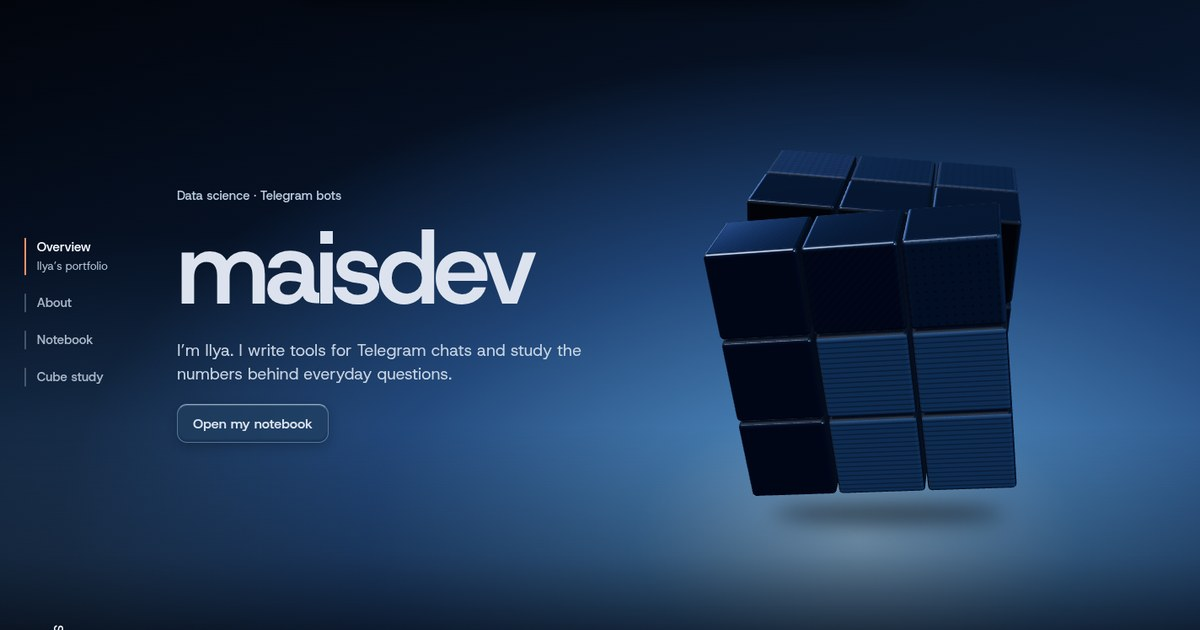
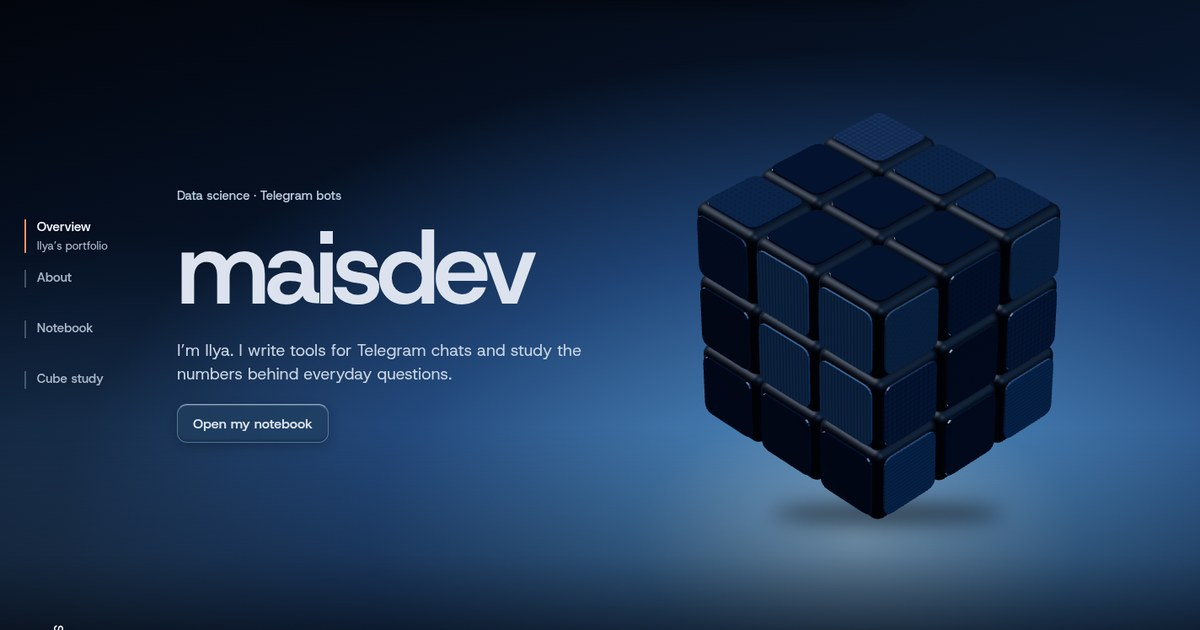
Обновлены форма и вращение кубика, переходы между разделами и полоса прокрутки

Changed region(s): [[0.555, 0.2111, 0.8942, 0.8444], [0.0308, 0.3317, 0.0925, 0.5429], [0.0308, 0.573, 0.0925, 0.6333]]

diff --git a/style.css b/style.css
@@ -208,26 +208,31 @@ h1 > span{display:block}
 
 .section-index {
   position:fixed;z-index:4;left:clamp(18px,2vw,36px);top:50%;transform:translateY(-50%);
-  width:156px;display:grid;
+  width:156px;display:grid;--row:60px;--selected:0;
 }
-.section-index a {display:block;position:relative;padding:11px 0 11px 15px;min-height:44px;color:#a7b5c6}
-.section-index a::before {content:"";position:absolute;left:0;top:11px;bottom:11px;width:2px;background:#8496aa77}
+.section-index a {display:block;position:relative;padding:8px 0 0 15px;height:var(--row);color:#a7b5c6;transition:color .32s ease}
+.section-index a::before {content:"";position:absolute;left:0;top:10px;height:21px;width:2px;background:#8496aa77;transition:background-color .4s ease}
 .section-index strong {font-weight:550;font-size:.94rem}
-.section-index small {display:none;margin-top:4px;font-size:.82rem;line-height:1.42;color:#b1c2d4}
+.section-index small {display:block;margin-top:4px;font-size:.82rem;line-height:1.35;color:#b1c2d4;
+  opacity:0;transform:translateY(4px);transition:opacity .28s ease,transform .4s var(--ease)}
 .section-index a[aria-current],.section-index a:hover {color:#f5f8ff}
 .section-index a[data-past]::before {background:#ac765e}
-.section-index a[aria-current]::before {background:#ff9468}
-.section-index a[aria-current] small {display:block}
+.section-index a[aria-current] small {opacity:1;transform:none}
+.section-index::after {content:"";pointer-events:none;position:absolute;top:10px;left:0;width:2px;height:40px;
+  border-radius:2px;background:#ff9468;transform:translateY(calc(var(--selected) * var(--row)));
+  transition:transform .55s cubic-bezier(.33,0,.17,1)}
 @media(min-width:1051px){
   .hero-layout {padding-left:max(210px,calc((100vw - 1120px)/2))}
   .about-layout,.study-layout {width:auto;max-width:1200px;margin-inline:max(210px,calc((100vw - 1120px)/2)) max(5vw,calc((100vw - 1360px)/2))}
 }
 @media(max-width:1050px){
   .section-index {inset:auto 0 0;transform:none;width:100%;display:grid;grid-template-columns:repeat(4,1fr);padding:0 max(6px,env(safe-area-inset-right)) env(safe-area-inset-bottom) max(6px,env(safe-area-inset-left));background:#0a1320;border-top:1px solid #293b50}
-  .section-index a {display:grid;place-content:center;padding:5px;text-align:center}
+  .section-index a {height:auto;min-height:44px;display:grid;place-content:center;padding:5px;text-align:center}
   .section-index a::before {top:0;bottom:auto;left:12%;width:76%;height:2px}
   .section-index strong {font-size:.78rem}
-  .section-index a[aria-current] small {display:none}
+  .section-index small {display:none}
+  .section-index::after {inset:0 auto auto 0;width:25%;height:2px;background:transparent;
+    border-inline:0;transform:translateX(calc(var(--selected) * 100%));background-image:linear-gradient(to right,transparent 12%,#ff9468 12% 88%,transparent 88%)}
   .hero-meta {bottom:64px}
 }
 @media(prefers-reduced-motion:no-preference){
@@ -236,7 +241,19 @@ h1 > span{display:block}
   @keyframes word-arrival {from{color:#8091aa}to{color:var(--word-ink,var(--ink))}}
 }
 
-html {scrollbar-color:#4c5c70 #0a1320;scrollbar-width:thin}
+html {scrollbar-color:#7893ac #101d2a;scrollbar-width:thin}
+@supports selector(::-webkit-scrollbar) {
+  html {scrollbar-color:auto;scrollbar-width:auto}
+  html::-webkit-scrollbar {width:12px;height:12px}
+  html::-webkit-scrollbar-track {background:#0c1722;box-shadow:inset 1px 0 #243546}
+  html::-webkit-scrollbar-thumb {
+    border:3px solid transparent;border-radius:12px;background:#708ba4;background-clip:padding-box;
+    box-shadow:inset 1px 0 #b6cddd66,inset -1px 0 #415a70
+  }
+  html::-webkit-scrollbar-thumb:hover {background-color:#97b2c8}
+  html::-webkit-scrollbar-thumb:active {background-color:#bfd2df}
+}
+@media(forced-colors:active){html {scrollbar-color:auto}}
 
 /* Clear rims, translucent surfaces and an opaque fallback for reduced transparency. */
 .contact,.demo-action {

diff --git a/script.js b/script.js
@@ -1,4 +1,4 @@
-import { mountCube } from './cube.mjs?v=22fa7094f8';
+import { mountCube } from './cube.mjs?v=06f25615ed';
 
 const canvas = document.querySelector('.cube canvas');
 if (canvas) mountCube(canvas);
@@ -36,6 +36,7 @@ if (CSS.supports('backdrop-filter','url(#nav-lens)') && /Chrome|Chromium|Edg\//.
 
 const sections = [...document.querySelectorAll('main > section')];
 const indexLinks = [...document.querySelectorAll('.section-index a, .site-header nav a')];
+const sectionIndex = document.querySelector('.section-index');
 const main = document.querySelector('main');
 const panels = sections.map(section=>section.querySelector('.scene-panel'));
 const motionPreference = matchMedia('(prefers-reduced-motion: reduce)');
@@ -46,6 +47,7 @@ const clamp = value=>Math.max(0,Math.min(1,value));
 function selectSection(index) {
   if (index===currentIndex) return;
   currentIndex=index;
+  sectionIndex.style.setProperty('--selected',index);
   sections.forEach((section,i)=>{
     section.classList.toggle('is-current',i===index);
     panels[i].inert=!motionPreference.matches && i!==index;
@@ -116,6 +118,45 @@ const panelSize=new ResizeObserver(measure);
 panels.forEach(panel=>panelSize.observe(panel));
 motionPreference.addEventListener('change',configureMotion);
 configureMotion();
+
+// Menu travel uses the same scroll-driven pictures as a manual gesture.
+let menuFrame = 0;
+function cancelMenuTravel() {
+  cancelAnimationFrame(menuFrame);
+  menuFrame=0;
+}
+sectionIndex.addEventListener('click',event=>{
+  const link=event.target.closest('a[href^="#"]');
+  if (!link || event.defaultPrevented || event.button!==0 || event.metaKey ||
+      event.ctrlKey || event.shiftKey || event.altKey) return;
+  const target=document.getElementById(link.hash.slice(1));
+  if (!target) return;
+  event.preventDefault();
+  cancelMenuTravel();
+  const start=scrollY;
+  const end=Math.min(start+target.getBoundingClientRect().top,document.documentElement.scrollHeight-innerHeight);
+  if (location.hash!==link.hash) history.pushState(null,'',link.hash);
+  if (motionPreference.matches) {
+    window.scrollTo({top:end,behavior:'instant'});
+    return;
+  }
+  const distance=end-start;
+  if (Math.abs(distance)<1) return;
+  const duration=Math.min(2400,720+480*Math.abs(distance)/innerHeight);
+  const startTime=performance.now();
+  function advance(now) {
+    const t=clamp((now-startTime)/duration);
+    // Cosine easing starts and ends at zero velocity, even for a long jump.
+    const fraction=(1-Math.cos(Math.PI*t))/2;
+    window.scrollTo({top:start+distance*fraction,behavior:'instant'});
+    menuFrame=t<1 ? requestAnimationFrame(advance) : 0;
+  }
+  menuFrame=requestAnimationFrame(advance);
+});
+for (const type of ['wheel','touchstart','pointerdown','keydown','popstate','hashchange','resize']) {
+  window.addEventListener(type,cancelMenuTravel,{passive:true});
+}
+motionPreference.addEventListener('change',cancelMenuTravel);
 
 import('./assets/moments/moments.js').then(async ({ready})=>{
   await ready;

diff --git a/index.html b/index.html
@@ -12,14 +12,14 @@
   <meta property="og:type" content="website">
   <meta property="og:image" content="https://daexorn.github.io/assets/share.jpg">
   <title>Ilya / maisdev — Data science &amp; Telegram bots</title>
-  <link rel="preload" as="image" href="assets/cube-poster.webp?v=05c317c6b8" fetchpriority="high">
+  <link rel="preload" as="image" href="assets/cube-poster.webp?v=8dde0136fe" fetchpriority="high">
   <link rel="icon" href="data:,">
   <link rel="preload" href="assets/fonts/host-grotesk.woff2" as="font" type="font/woff2" crossorigin>
   <link rel="stylesheet" href="assets/motion/motion.css">
-  <link rel="stylesheet" href="style.css?v=e9794a8b09">
+  <link rel="stylesheet" href="style.css?v=f560e8f8bf">
   <script>document.documentElement.classList.add('m-enter');setTimeout(() => document.documentElement.classList.add('m-enter-done'), 700)</script>
   <script type="module" src="assets/motion/motion.js"></script>
-  <script type="module" src="script.js?v=d05ca7a187"></script>
+  <script type="module" src="script.js?v=893feda6b0"></script>
   <script type="module" src="assets/moments/moments.js"></script>
 </head>
 <body>
@@ -55,7 +55,7 @@
           </div>
           <div class="stage hero__stage" data-enter-media>
             <button class="cube" type="button" aria-label="Turn a layer of the dark Rubik’s cube">
-              <img fetchpriority="high" src="assets/cube-poster.webp?v=05c317c6b8" width="512" height="512" alt="">
+              <img fetchpriority="high" src="assets/cube-poster.webp?v=8dde0136fe" width="512" height="512" alt="">
               <canvas aria-hidden="true" width="512" height="512"></canvas>
             </button>
           </div>
